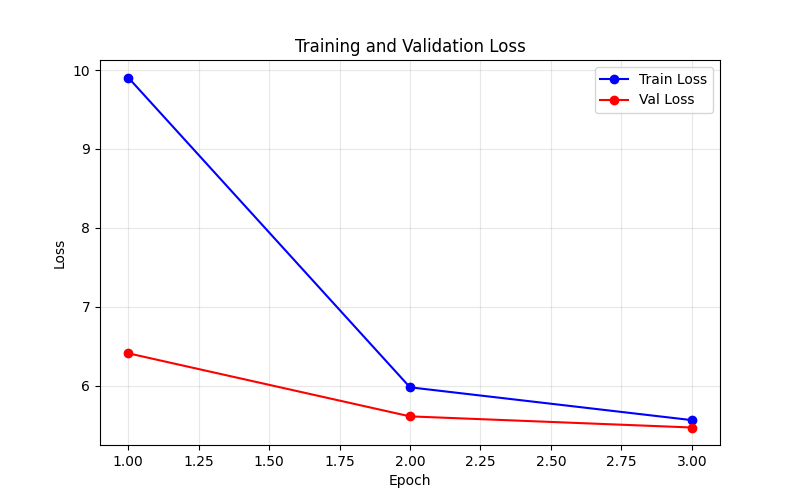
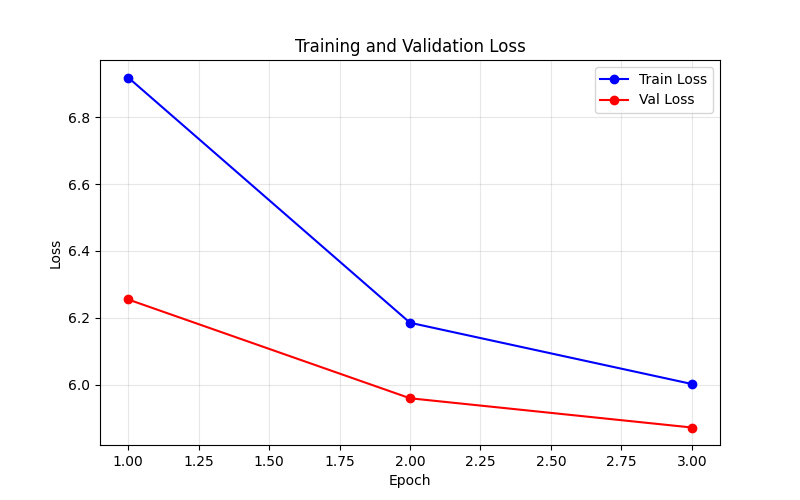
text generation

diff --git a/training.py b/training.py
@@ -65,7 +65,7 @@ print(train_dataset)
 collate = partial(
     collate_fn, 
     tokenizer=tokenizer, 
-    max_length=1024)
+    max_length=128)
 
 train_loader = DataLoader(train_dataset, batch_size=32, shuffle=True, collate_fn=collate, num_workers=10)
 
@@ -77,11 +77,11 @@ val_loader = DataLoader(valid_dataset, batch_size=32, shuffle=False, collate_fn=
 item, _ = next(iter(val_loader))
 print(item.shape)
 
-
+"""
 config = GPTConfig()
 model = GPT(config=config)
-
 """
+
 config = GPTConfig(
     vocab_size=50257,
     max_seq_len=128,
@@ -93,7 +93,6 @@ config = GPTConfig(
 )
 
 model = GPT(config=config)
-"""
 
 model.to(device=device)
 

diff --git a/textGeneration.py b/textGeneration.py
@@ -12,10 +12,11 @@ chech = torch.load('best_model.pt', map_location=device)
 
 print(chech['val_loss'])
 
+"""
 config = GPTConfig()
 a = GPT(config=config)
-
 """
+
 config = GPTConfig(
     vocab_size=50257,
     max_seq_len=128,
@@ -27,7 +28,7 @@ config = GPTConfig(
 )
 
 model = GPT(config=config)
-"""
+
 
 model.to(device)
 
